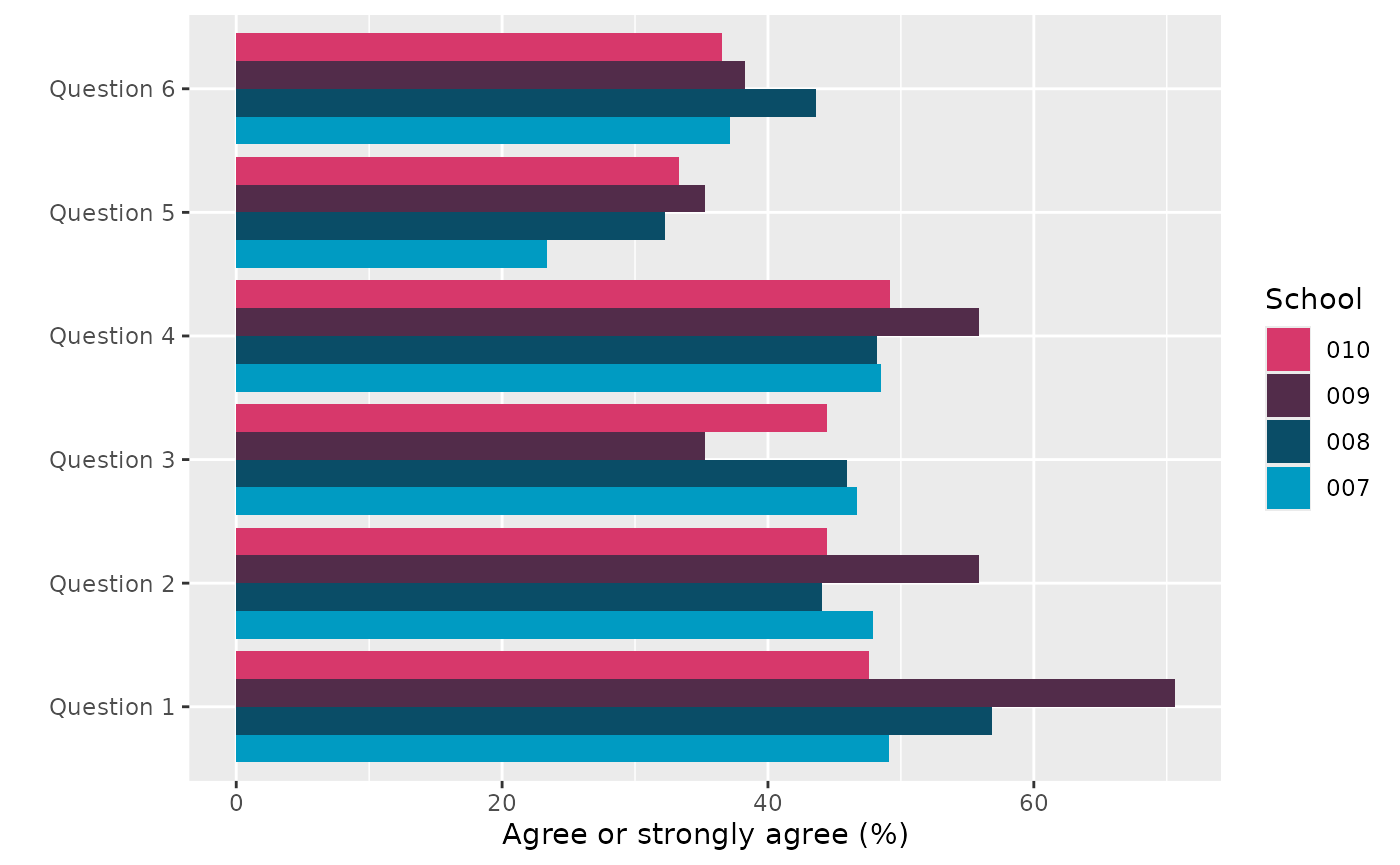
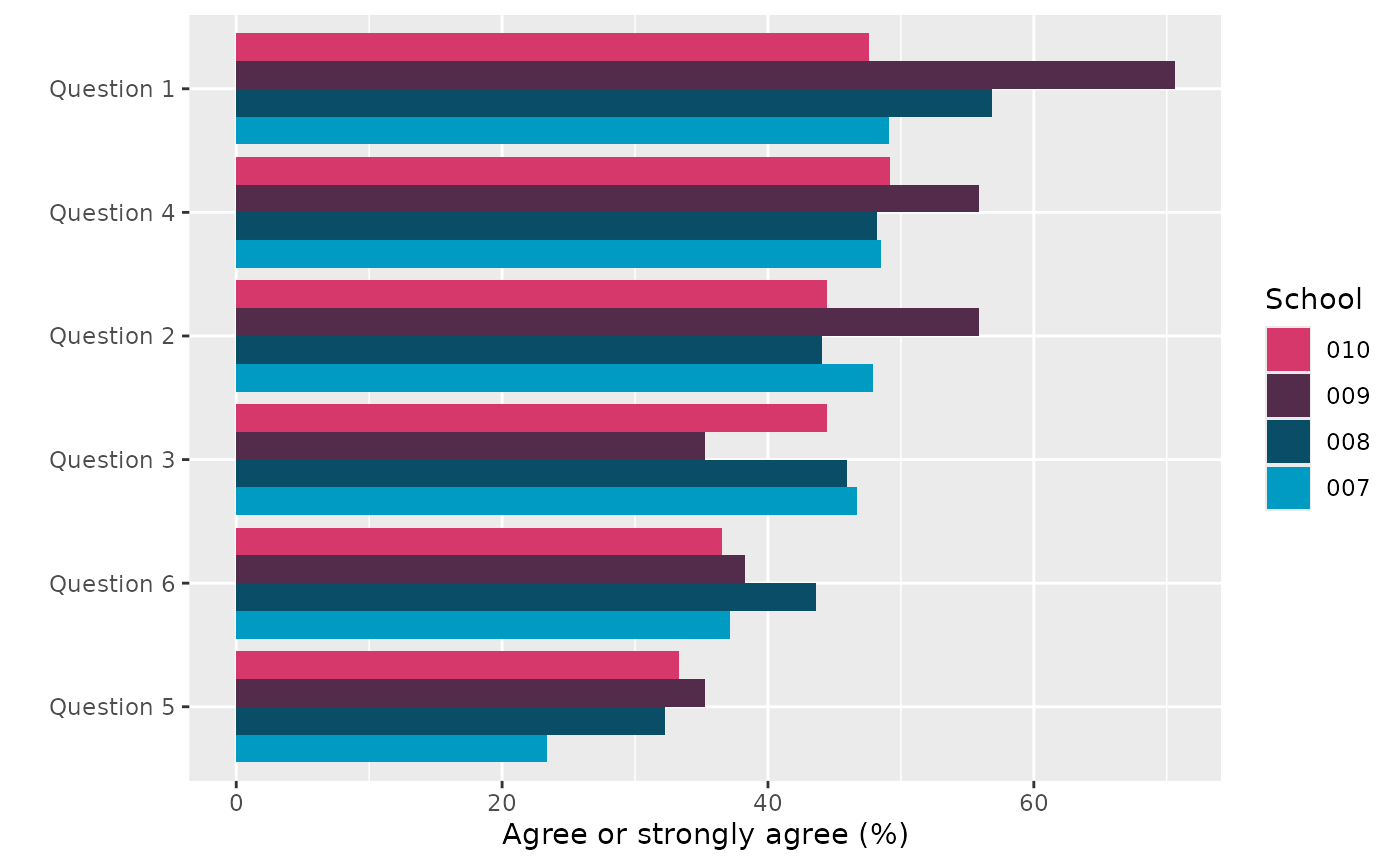
Deploying to gh-pages from @ Jake-Powell/OMESurvey@a40714448148b96475d8f367a8f5ddf7f0ad8782 🚀

Changed region(s): [[0.3686, 0.0312, 0.86, 0.437], [0.3686, 0.5931, 0.86, 0.9052]]

diff --git a/articles/Create-survey-figures.html b/articles/Create-survey-figures.html
@@ -111,7 +111,7 @@ ggplot, a plotly figure or a formatted data frame.</p>
 <div class="sourceCode" id="cb4"><pre class="downlit sourceCode r">
 <code class="sourceCode R"><span><span class="fu">OMESurvey</span><span class="fu">::</span><span class="fu"><a href="../reference/plot_theme.html">plot_theme</a></span><span class="op">(</span><span class="va">data</span>, theme <span class="op">=</span> <span class="st">'Theme_1'</span>, kind <span class="op">=</span> <span class="st">'plotly'</span><span class="op">)</span></span></code></pre></div>
 <div class="plotly html-widget html-fill-item" id="htmlwidget-ac96cb3ee4656e2e9ec3" style="width:700px;height:432.632880098888px;"></div>
-<script type="application/json" data-for="htmlwidget-ac96cb3ee4656e2e9ec3">{"x":{"visdat":{"181218987b5e":["function () ","plotlyVisDat"]},"cur_data":"181218987b5e","attrs":{"181218987b5e":{"y":{},"x":{},"orientation":"h","hovertext":{},"hoverinfo":"text","color":{},"colors":["#009BC2","#08607D","#10263A","#732F52","#D7386B"],"alpha_stroke":1,"sizes":[10,100],"spans":[1,20],"type":"bar"}},"layout":{"margin":{"b":40,"l":60,"t":25,"r":10},"xaxis":{"domain":[0,1],"automargin":true,"title":"Number of responses"},"yaxis":{"domain":[0,1],"automargin":true,"title":"","type":"category","categoryorder":"array","categoryarray":["Question 1","Question 2","Question 3","Question 4","Question 5","Question 6"]},"barmode":"stack","hovermode":"closest","showlegend":true},"source":"A","config":{"modeBarButtonsToAdd":["hoverclosest","hovercompare"],"showSendToCloud":false},"data":[{"y":["Question 1","Question 2","Question 3","Question 4","Question 5","Question 6"],"x":[122,49,84,134,85,90],"orientation":"h","hovertext":["Agree a lot<br>122 Responses<br>34.9%","Agree a lot<br>49 Responses<br>14.4%","Agree a lot<br>84 Responses<br>23.9%","Agree a lot<br>134 Responses<br>38.1%","Agree a lot<br>85 Responses<br>23.5%","Agree a lot<br>90 Responses<br>25.9%"],"hoverinfo":["text","text","text","text","text","text"],"type":"bar","name":"Agree a lot","marker":{"color":"rgba(0,155,194,1)","line":{"color":"rgba(0,155,194,1)"}},"textfont":{"color":"rgba(0,155,194,1)"},"error_y":{"color":"rgba(0,155,194,1)"},"error_x":{"color":"rgba(0,155,194,1)"},"xaxis":"x","yaxis":"y","frame":null},{"y":["Question 1","Question 2","Question 3","Question 4","Question 5","Question 6"],"x":[139,175,135,103,58,104],"orientation":"h","hovertext":["Agree a little<br>139 Responses<br>39.7%","Agree a little<br>175 Responses<br>51.5%","Agree a little<br>135 Responses<br>38.4%","Agree a little<br>103 Responses<br>29.3%","Agree a little<br>58 Responses<br>16.1%","Agree a little<br>104 Responses<br>30%"],"hoverinfo":["text","text","text","text","text","text"],"type":"bar","name":"Agree a little","marker":{"color":"rgba(8,96,125,1)","line":{"color":"rgba(8,96,125,1)"}},"textfont":{"color":"rgba(8,96,125,1)"},"error_y":{"color":"rgba(8,96,125,1)"},"error_x":{"color":"rgba(8,96,125,1)"},"xaxis":"x","yaxis":"y","frame":null},{"y":["Question 1","Question 2","Question 3","Question 4","Question 5","Question 6"],"x":[45,54,65,52,70,76],"orientation":"h","hovertext":["Neither<br>45 Responses<br>12.9%","Neither<br>54 Responses<br>15.9%","Neither<br>65 Responses<br>18.5%","Neither<br>52 Responses<br>14.8%","Neither<br>70 Responses<br>19.4%","Neither<br>76 Responses<br>21.9%"],"hoverinfo":["text","text","text","text","text","text"],"type":"bar","name":"Neither","marker":{"color":"rgba(16,38,58,1)","line":{"color":"rgba(16,38,58,1)"}},"textfont":{"color":"rgba(16,38,58,1)"},"error_y":{"color":"rgba(16,38,58,1)"},"error_x":{"color":"rgba(16,38,58,1)"},"xaxis":"x","yaxis":"y","frame":null},{"y":["Question 1","Question 2","Question 3","Question 4","Question 5","Question 6"],"x":[28,44,47,33,61,32],"orientation":"h","hovertext":["Disagree a little<br>28 Responses<br>8%","Disagree a little<br>44 Responses<br>12.9%","Disagree a little<br>47 Responses<br>13.4%","Disagree a little<br>33 Responses<br>9.4%","Disagree a little<br>61 Responses<br>16.9%","Disagree a little<br>32 Responses<br>9.2%"],"hoverinfo":["text","text","text","text","text","text"],"type":"bar","name":"Disagree a little","marker":{"color":"rgba(115,47,82,1)","line":{"color":"rgba(115,47,82,1)"}},"textfont":{"color":"rgba(115,47,82,1)"},"error_y":{"color":"rgba(115,47,82,1)"},"error_x":{"color":"rgba(115,47,82,1)"},"xaxis":"x","yaxis":"y","frame":null},{"y":["Question 1","Question 2","Question 3","Question 4","Question 5","Question 6"],"x":[16,18,21,30,87,45],"orientation":"h","hovertext":["Disagree a lot<br>16 Responses<br>4.6%","Disagree a lot<br>18 Responses<br>5.3%","Disagree a lot<br>21 Responses<br>6%","Disagree a lot<br>30 Responses<br>8.5%","Disagree a lot<br>87 Responses<br>24.1%","Disagree a lot<br>45 Responses<br>13%"],"hoverinfo":["text","text","text","text","text","text"],"type":"bar","name":"Disagree a lot","marker":{"color":"rgba(215,56,107,1)","line":{"color":"rgba(215,56,107,1)"}},"textfont":{"color":"rgba(215,56,107,1)"},"error_y":{"color":"rgba(215,56,107,1)"},"error_x":{"color":"rgba(215,56,107,1)"},"xaxis":"x","yaxis":"y","frame":null}],"highlight":{"on":"plotly_click","persistent":false,"dynamic":false,"selectize":false,"opacityDim":0.20000000000000001,"selected":{"opacity":1},"debounce":0},"shinyEvents":["plotly_hover","plotly_click","plotly_selected","plotly_relayout","plotly_brushed","plotly_brushing","plotly_clickannotation","plotly_doubleclick","plotly_deselect","plotly_afterplot","plotly_sunburstclick"],"base_url":"https://plot.ly"},"evals":[],"jsHooks":[]}</script>
+<script type="application/json" data-for="htmlwidget-ac96cb3ee4656e2e9ec3">{"x":{"visdat":{"18651ba3e388":["function () ","plotlyVisDat"]},"cur_data":"18651ba3e388","attrs":{"18651ba3e388":{"y":{},"x":{},"orientation":"h","hovertext":{},"hoverinfo":"text","color":{},"colors":["#009BC2","#08607D","#10263A","#732F52","#D7386B"],"alpha_stroke":1,"sizes":[10,100],"spans":[1,20],"type":"bar"}},"layout":{"margin":{"b":40,"l":60,"t":25,"r":10},"xaxis":{"domain":[0,1],"automargin":true,"title":"Number of responses"},"yaxis":{"domain":[0,1],"automargin":true,"title":"","type":"category","categoryorder":"array","categoryarray":["Question 1","Question 2","Question 3","Question 4","Question 5","Question 6"]},"barmode":"stack","hovermode":"closest","showlegend":true},"source":"A","config":{"modeBarButtonsToAdd":["hoverclosest","hovercompare"],"showSendToCloud":false},"data":[{"y":["Question 1","Question 2","Question 3","Question 4","Question 5","Question 6"],"x":[122,49,84,134,85,90],"orientation":"h","hovertext":["Agree a lot<br>122 Responses<br>34.9%","Agree a lot<br>49 Responses<br>14.4%","Agree a lot<br>84 Responses<br>23.9%","Agree a lot<br>134 Responses<br>38.1%","Agree a lot<br>85 Responses<br>23.5%","Agree a lot<br>90 Responses<br>25.9%"],"hoverinfo":["text","text","text","text","text","text"],"type":"bar","name":"Agree a lot","marker":{"color":"rgba(0,155,194,1)","line":{"color":"rgba(0,155,194,1)"}},"textfont":{"color":"rgba(0,155,194,1)"},"error_y":{"color":"rgba(0,155,194,1)"},"error_x":{"color":"rgba(0,155,194,1)"},"xaxis":"x","yaxis":"y","frame":null},{"y":["Question 1","Question 2","Question 3","Question 4","Question 5","Question 6"],"x":[139,175,135,103,58,104],"orientation":"h","hovertext":["Agree a little<br>139 Responses<br>39.7%","Agree a little<br>175 Responses<br>51.5%","Agree a little<br>135 Responses<br>38.4%","Agree a little<br>103 Responses<br>29.3%","Agree a little<br>58 Responses<br>16.1%","Agree a little<br>104 Responses<br>30%"],"hoverinfo":["text","text","text","text","text","text"],"type":"bar","name":"Agree a little","marker":{"color":"rgba(8,96,125,1)","line":{"color":"rgba(8,96,125,1)"}},"textfont":{"color":"rgba(8,96,125,1)"},"error_y":{"color":"rgba(8,96,125,1)"},"error_x":{"color":"rgba(8,96,125,1)"},"xaxis":"x","yaxis":"y","frame":null},{"y":["Question 1","Question 2","Question 3","Question 4","Question 5","Question 6"],"x":[45,54,65,52,70,76],"orientation":"h","hovertext":["Neither<br>45 Responses<br>12.9%","Neither<br>54 Responses<br>15.9%","Neither<br>65 Responses<br>18.5%","Neither<br>52 Responses<br>14.8%","Neither<br>70 Responses<br>19.4%","Neither<br>76 Responses<br>21.9%"],"hoverinfo":["text","text","text","text","text","text"],"type":"bar","name":"Neither","marker":{"color":"rgba(16,38,58,1)","line":{"color":"rgba(16,38,58,1)"}},"textfont":{"color":"rgba(16,38,58,1)"},"error_y":{"color":"rgba(16,38,58,1)"},"error_x":{"color":"rgba(16,38,58,1)"},"xaxis":"x","yaxis":"y","frame":null},{"y":["Question 1","Question 2","Question 3","Question 4","Question 5","Question 6"],"x":[28,44,47,33,61,32],"orientation":"h","hovertext":["Disagree a little<br>28 Responses<br>8%","Disagree a little<br>44 Responses<br>12.9%","Disagree a little<br>47 Responses<br>13.4%","Disagree a little<br>33 Responses<br>9.4%","Disagree a little<br>61 Responses<br>16.9%","Disagree a little<br>32 Responses<br>9.2%"],"hoverinfo":["text","text","text","text","text","text"],"type":"bar","name":"Disagree a little","marker":{"color":"rgba(115,47,82,1)","line":{"color":"rgba(115,47,82,1)"}},"textfont":{"color":"rgba(115,47,82,1)"},"error_y":{"color":"rgba(115,47,82,1)"},"error_x":{"color":"rgba(115,47,82,1)"},"xaxis":"x","yaxis":"y","frame":null},{"y":["Question 1","Question 2","Question 3","Question 4","Question 5","Question 6"],"x":[16,18,21,30,87,45],"orientation":"h","hovertext":["Disagree a lot<br>16 Responses<br>4.6%","Disagree a lot<br>18 Responses<br>5.3%","Disagree a lot<br>21 Responses<br>6%","Disagree a lot<br>30 Responses<br>8.5%","Disagree a lot<br>87 Responses<br>24.1%","Disagree a lot<br>45 Responses<br>13%"],"hoverinfo":["text","text","text","text","text","text"],"type":"bar","name":"Disagree a lot","marker":{"color":"rgba(215,56,107,1)","line":{"color":"rgba(215,56,107,1)"}},"textfont":{"color":"rgba(215,56,107,1)"},"error_y":{"color":"rgba(215,56,107,1)"},"error_x":{"color":"rgba(215,56,107,1)"},"xaxis":"x","yaxis":"y","frame":null}],"highlight":{"on":"plotly_click","persistent":false,"dynamic":false,"selectize":false,"opacityDim":0.20000000000000001,"selected":{"opacity":1},"debounce":0},"shinyEvents":["plotly_hover","plotly_click","plotly_selected","plotly_relayout","plotly_brushed","plotly_brushing","plotly_clickannotation","plotly_doubleclick","plotly_deselect","plotly_afterplot","plotly_sunburstclick"],"base_url":"https://plot.ly"},"evals":[],"jsHooks":[]}</script>
 </div>
 <div class="tab-pane" id="data-frame" role="tabpanel" aria-labelledby="data-frame-tab">
 
@@ -174,7 +174,7 @@ code.</p>
 <div class="sourceCode" id="cb8"><pre class="downlit sourceCode r">
 <code class="sourceCode R"><span><span class="fu">OMESurvey</span><span class="fu">::</span><span class="fu"><a href="../reference/plot_theme_by_demographic.html">plot_theme_by_demographic</a></span><span class="op">(</span><span class="va">data</span>, theme <span class="op">=</span> <span class="st">'Theme_1'</span>, demographic_column <span class="op">=</span> <span class="va">school_column</span>,  kind <span class="op">=</span> <span class="st">'plotly'</span><span class="op">)</span></span></code></pre></div>
 <div class="plotly html-widget html-fill-item" id="htmlwidget-36aa3d2a04d42bbc2145" style="width:700px;height:432.632880098888px;"></div>
-<script type="application/json" data-for="htmlwidget-36aa3d2a04d42bbc2145">{"x":{"visdat":{"18122a3e1006":["function () ","plotlyVisDat"]},"cur_data":"18122a3e1006","attrs":{"18122a3e1006":{"y":{},"x":{},"orientation":"h","hovertext":{},"hoverinfo":"text","color":{},"colors":["#009BC2","#0A4D67","#522C4A","#D7386B"],"alpha_stroke":1,"sizes":[10,100],"spans":[1,20],"type":"bar"}},"layout":{"margin":{"b":40,"l":60,"t":25,"r":10},"xaxis":{"domain":[0,1],"automargin":true,"title":"Agree or strongly agree (%)"},"yaxis":{"domain":[0,1],"automargin":true,"title":"","type":"category","categoryorder":"array","categoryarray":["Question 1","Question 2","Question 3","Question 4","Question 5","Question 6"]},"hovermode":"closest","showlegend":true},"source":"A","config":{"modeBarButtonsToAdd":["hoverclosest","hovercompare"],"showSendToCloud":false},"data":[{"y":["Question 1","Question 2","Question 3","Question 4","Question 5","Question 6"],"x":[49.101796407185603,47.904191616766497,46.706586826347298,48.502994011976,23.353293413173699,37.125748502994],"orientation":"h","hovertext":["Question 1<br>School: 007<br>49.1% of responses","Question 2<br>School: 007<br>47.9% of responses","Question 3<br>School: 007<br>46.7% of responses","Question 4<br>School: 007<br>48.5% of responses","Question 5<br>School: 007<br>23.4% of responses","Question 6<br>School: 007<br>37.1% of responses"],"hoverinfo":["text","text","text","text","text","text"],"type":"bar","name":"007","marker":{"color":"rgba(0,155,194,1)","line":{"color":"rgba(0,155,194,1)"}},"textfont":{"color":"rgba(0,155,194,1)"},"error_y":{"color":"rgba(0,155,194,1)"},"error_x":{"color":"rgba(0,155,194,1)"},"xaxis":"x","yaxis":"y","frame":null},{"y":["Question 1","Question 2","Question 3","Question 4","Question 5","Question 6"],"x":[56.818181818181799,44.090909090909101,45.909090909090899,48.181818181818201,32.272727272727302,43.636363636363598],"orientation":"h","hovertext":["Question 1<br>School: 008<br>56.8% of responses","Question 2<br>School: 008<br>44.1% of responses","Question 3<br>School: 008<br>45.9% of responses","Question 4<br>School: 008<br>48.2% of responses","Question 5<br>School: 008<br>32.3% of responses","Question 6<br>School: 008<br>43.6% of responses"],"hoverinfo":["text","text","text","text","text","text"],"type":"bar","name":"008","marker":{"color":"rgba(10,77,103,1)","line":{"color":"rgba(10,77,103,1)"}},"textfont":{"color":"rgba(10,77,103,1)"},"error_y":{"color":"rgba(10,77,103,1)"},"error_x":{"color":"rgba(10,77,103,1)"},"xaxis":"x","yaxis":"y","frame":null},{"y":["Question 1","Question 2","Question 3","Question 4","Question 5","Question 6"],"x":[70.588235294117695,55.882352941176499,35.294117647058798,55.882352941176499,35.294117647058798,38.235294117647101],"orientation":"h","hovertext":["Question 1<br>School: 009<br>70.6% of responses","Question 2<br>School: 009<br>55.9% of responses","Question 3<br>School: 009<br>35.3% of responses","Question 4<br>School: 009<br>55.9% of responses","Question 5<br>School: 009<br>35.3% of responses","Question 6<br>School: 009<br>38.2% of responses"],"hoverinfo":["text","text","text","text","text","text"],"type":"bar","name":"009","marker":{"color":"rgba(82,44,74,1)","line":{"color":"rgba(82,44,74,1)"}},"textfont":{"color":"rgba(82,44,74,1)"},"error_y":{"color":"rgba(82,44,74,1)"},"error_x":{"color":"rgba(82,44,74,1)"},"xaxis":"x","yaxis":"y","frame":null},{"y":["Question 1","Question 2","Question 3","Question 4","Question 5","Question 6"],"x":[47.619047619047599,44.4444444444444,44.4444444444444,49.206349206349202,33.3333333333333,36.507936507936499],"orientation":"h","hovertext":["Question 1<br>School: 010<br>47.6% of responses","Question 2<br>School: 010<br>44.4% of responses","Question 3<br>School: 010<br>44.4% of responses","Question 4<br>School: 010<br>49.2% of responses","Question 5<br>School: 010<br>33.3% of responses","Question 6<br>School: 010<br>36.5% of responses"],"hoverinfo":["text","text","text","text","text","text"],"type":"bar","name":"010","marker":{"color":"rgba(215,56,107,1)","line":{"color":"rgba(215,56,107,1)"}},"textfont":{"color":"rgba(215,56,107,1)"},"error_y":{"color":"rgba(215,56,107,1)"},"error_x":{"color":"rgba(215,56,107,1)"},"xaxis":"x","yaxis":"y","frame":null}],"highlight":{"on":"plotly_click","persistent":false,"dynamic":false,"selectize":false,"opacityDim":0.20000000000000001,"selected":{"opacity":1},"debounce":0},"shinyEvents":["plotly_hover","plotly_click","plotly_selected","plotly_relayout","plotly_brushed","plotly_brushing","plotly_clickannotation","plotly_doubleclick","plotly_deselect","plotly_afterplot","plotly_sunburstclick"],"base_url":"https://plot.ly"},"evals":[],"jsHooks":[]}</script>
+<script type="application/json" data-for="htmlwidget-36aa3d2a04d42bbc2145">{"x":{"visdat":{"18651b595d59":["function () ","plotlyVisDat"]},"cur_data":"18651b595d59","attrs":{"18651b595d59":{"y":{},"x":{},"orientation":"h","hovertext":{},"hoverinfo":"text","color":{},"colors":["#009BC2","#0A4D67","#522C4A","#D7386B"],"alpha_stroke":1,"sizes":[10,100],"spans":[1,20],"type":"bar"}},"layout":{"margin":{"b":40,"l":60,"t":25,"r":10},"xaxis":{"domain":[0,1],"automargin":true,"title":"Agree or strongly agree (%)"},"yaxis":{"domain":[0,1],"automargin":true,"title":"","type":"category","categoryorder":"array","categoryarray":["Question 1","Question 2","Question 3","Question 4","Question 5","Question 6"]},"hovermode":"closest","showlegend":true},"source":"A","config":{"modeBarButtonsToAdd":["hoverclosest","hovercompare"],"showSendToCloud":false},"data":[{"y":["Question 1","Question 2","Question 3","Question 4","Question 5","Question 6"],"x":[49.101796407185603,47.904191616766497,46.706586826347298,48.502994011976,23.353293413173699,37.125748502994],"orientation":"h","hovertext":["Question 1<br>School: 007<br>49.1% of responses","Question 2<br>School: 007<br>47.9% of responses","Question 3<br>School: 007<br>46.7% of responses","Question 4<br>School: 007<br>48.5% of responses","Question 5<br>School: 007<br>23.4% of responses","Question 6<br>School: 007<br>37.1% of responses"],"hoverinfo":["text","text","text","text","text","text"],"type":"bar","name":"007","marker":{"color":"rgba(0,155,194,1)","line":{"color":"rgba(0,155,194,1)"}},"textfont":{"color":"rgba(0,155,194,1)"},"error_y":{"color":"rgba(0,155,194,1)"},"error_x":{"color":"rgba(0,155,194,1)"},"xaxis":"x","yaxis":"y","frame":null},{"y":["Question 1","Question 2","Question 3","Question 4","Question 5","Question 6"],"x":[56.818181818181799,44.090909090909101,45.909090909090899,48.181818181818201,32.272727272727302,43.636363636363598],"orientation":"h","hovertext":["Question 1<br>School: 008<br>56.8% of responses","Question 2<br>School: 008<br>44.1% of responses","Question 3<br>School: 008<br>45.9% of responses","Question 4<br>School: 008<br>48.2% of responses","Question 5<br>School: 008<br>32.3% of responses","Question 6<br>School: 008<br>43.6% of responses"],"hoverinfo":["text","text","text","text","text","text"],"type":"bar","name":"008","marker":{"color":"rgba(10,77,103,1)","line":{"color":"rgba(10,77,103,1)"}},"textfont":{"color":"rgba(10,77,103,1)"},"error_y":{"color":"rgba(10,77,103,1)"},"error_x":{"color":"rgba(10,77,103,1)"},"xaxis":"x","yaxis":"y","frame":null},{"y":["Question 1","Question 2","Question 3","Question 4","Question 5","Question 6"],"x":[70.588235294117695,55.882352941176499,35.294117647058798,55.882352941176499,35.294117647058798,38.235294117647101],"orientation":"h","hovertext":["Question 1<br>School: 009<br>70.6% of responses","Question 2<br>School: 009<br>55.9% of responses","Question 3<br>School: 009<br>35.3% of responses","Question 4<br>School: 009<br>55.9% of responses","Question 5<br>School: 009<br>35.3% of responses","Question 6<br>School: 009<br>38.2% of responses"],"hoverinfo":["text","text","text","text","text","text"],"type":"bar","name":"009","marker":{"color":"rgba(82,44,74,1)","line":{"color":"rgba(82,44,74,1)"}},"textfont":{"color":"rgba(82,44,74,1)"},"error_y":{"color":"rgba(82,44,74,1)"},"error_x":{"color":"rgba(82,44,74,1)"},"xaxis":"x","yaxis":"y","frame":null},{"y":["Question 1","Question 2","Question 3","Question 4","Question 5","Question 6"],"x":[47.619047619047599,44.4444444444444,44.4444444444444,49.206349206349202,33.3333333333333,36.507936507936499],"orientation":"h","hovertext":["Question 1<br>School: 010<br>47.6% of responses","Question 2<br>School: 010<br>44.4% of responses","Question 3<br>School: 010<br>44.4% of responses","Question 4<br>School: 010<br>49.2% of responses","Question 5<br>School: 010<br>33.3% of responses","Question 6<br>School: 010<br>36.5% of responses"],"hoverinfo":["text","text","text","text","text","text"],"type":"bar","name":"010","marker":{"color":"rgba(215,56,107,1)","line":{"color":"rgba(215,56,107,1)"}},"textfont":{"color":"rgba(215,56,107,1)"},"error_y":{"color":"rgba(215,56,107,1)"},"error_x":{"color":"rgba(215,56,107,1)"},"xaxis":"x","yaxis":"y","frame":null}],"highlight":{"on":"plotly_click","persistent":false,"dynamic":false,"selectize":false,"opacityDim":0.20000000000000001,"selected":{"opacity":1},"debounce":0},"shinyEvents":["plotly_hover","plotly_click","plotly_selected","plotly_relayout","plotly_brushed","plotly_brushing","plotly_clickannotation","plotly_doubleclick","plotly_deselect","plotly_afterplot","plotly_sunburstclick"],"base_url":"https://plot.ly"},"evals":[],"jsHooks":[]}</script>
 </div>
 <div class="tab-pane" id="data-frame-1" role="tabpanel" aria-labelledby="data-frame-1-tab">
 
